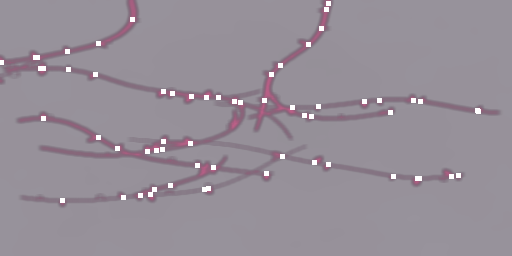
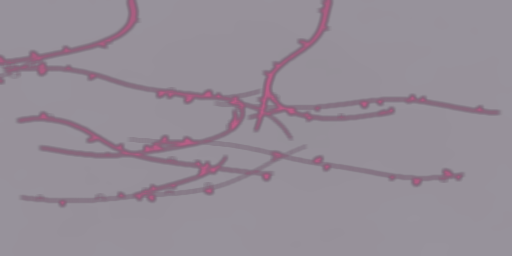
fix: Improve stability of vine generation and update test case for archetype selection

diff --git a/Assets/Decantra/Domain/Background/VineTendrilsGenerator.cs b/Assets/Decantra/Domain/Background/VineTendrilsGenerator.cs
@@ -84,7 +84,9 @@ namespace Decantra.Domain.Background
             // Density adjustment
             for (int i = 0; i < field.Length; i++)
             {
-                field[i] = SmoothRemap(field[i], 0.08f, 0.88f);
+                float value = field[i];
+                if (!float.IsFinite(value)) value = 0f;
+                field[i] = SmoothRemap(value, 0.08f, 0.88f);
             }
 
             EnforceNoCenterBias(field, width, height);
@@ -172,6 +174,7 @@ namespace Decantra.Domain.Background
                 y += MathF.Sin(currentAngle) * stepLen;
 
                 float tendrilThickness = 0.003f * (1f - t);
+                if (tendrilThickness <= 0.0001f) break;
                 DrawSoftCircle(field, width, height, x, y, tendrilThickness, 0.5f);
             }
         }
@@ -194,6 +197,8 @@ namespace Decantra.Domain.Background
         private void DrawSoftCircle(float[] field, int width, int height,
             float cx, float cy, float radius, float intensity)
         {
+            if (radius <= 0.0001f || intensity <= 0f) return;
+
             int pixelRadius = (int)(radius * width) + 2;
             int centerX = (int)(cx * width);
             int centerY = (int)(cy * height);

diff --git a/Assets/Decantra/Tests/EditMode/BackgroundGeneratorTests.cs b/Assets/Decantra/Tests/EditMode/BackgroundGeneratorTests.cs
@@ -132,10 +132,10 @@ namespace Decantra.Domain.Tests
         }
 
         [Test]
-        public void Registry_SelectsZone2AsCurlFlowAdvection()
+        public void Registry_SelectsZone2AsOrganicCells()
         {
             var archetype = BackgroundGeneratorRegistry.SelectArchetypeForZone(2, TestSeed);
-            Assert.AreEqual(GeneratorArchetype.CurlFlowAdvection, archetype);
+            Assert.AreEqual(GeneratorArchetype.OrganicCells, archetype);
         }
 
         [Test]
